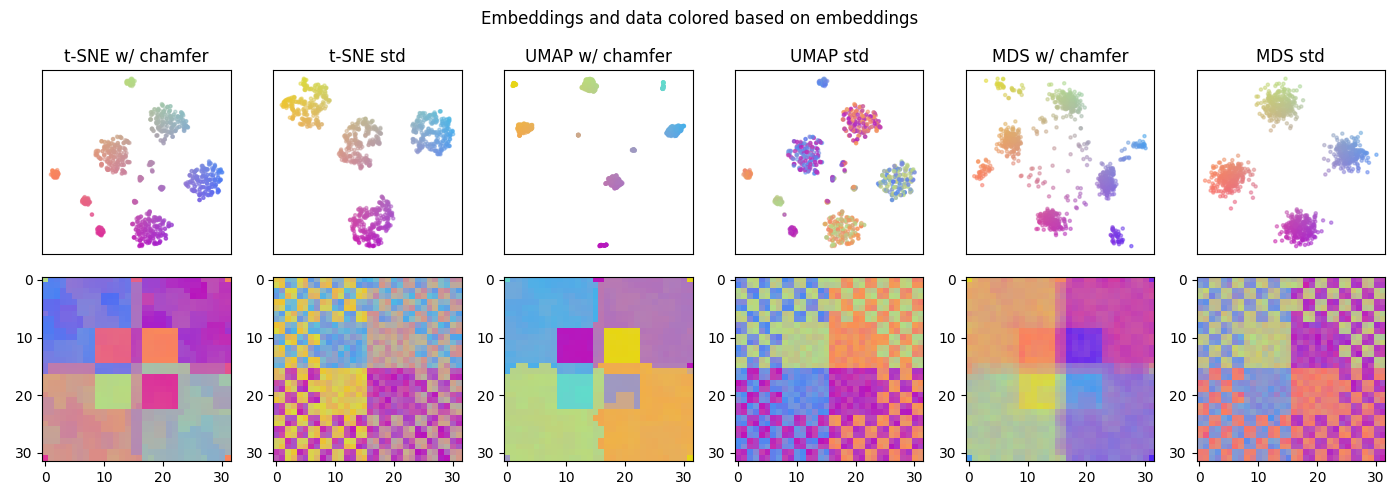
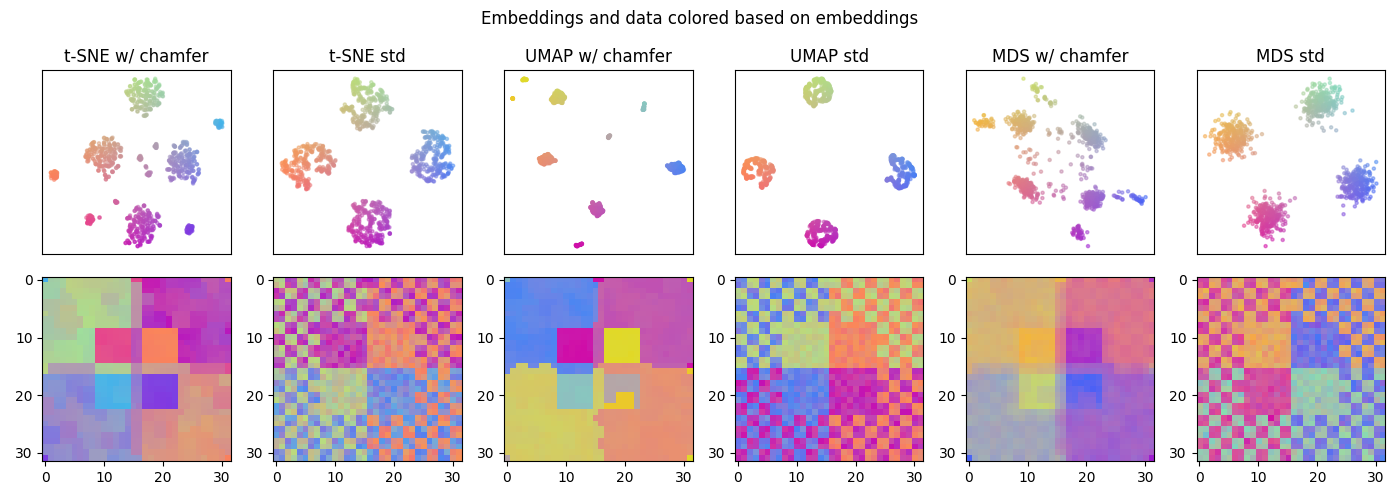
Fix: Wrong umap embedding for result plot

diff --git a/python_wrapper/example/example.py b/python_wrapper/example/example.py
@@ -150,7 +150,7 @@ def pltColProj(col_n, title, emb, emb_cols):
 pltColProj(0, 't-SNE w/ chamfer', emb_tsne, emb_tsne_colors)
 pltColProj(1, 't-SNE std', emb_tsne_std, emb_tsne_std_colors)
 pltColProj(2, 'UMAP w/ chamfer', emb_umap, emb_umap_colors)
-pltColProj(3, 'UMAP std', emb_tsne, emb_umap_std_colors)
+pltColProj(3, 'UMAP std', emb_umap_std, emb_umap_std_colors)
 pltColProj(4, 'MDS w/ chamfer', emb_mds, emb_mds_colors)
 pltColProj(5, 'MDS std', emb_mds_std, emb_mds_std_colors)
 
